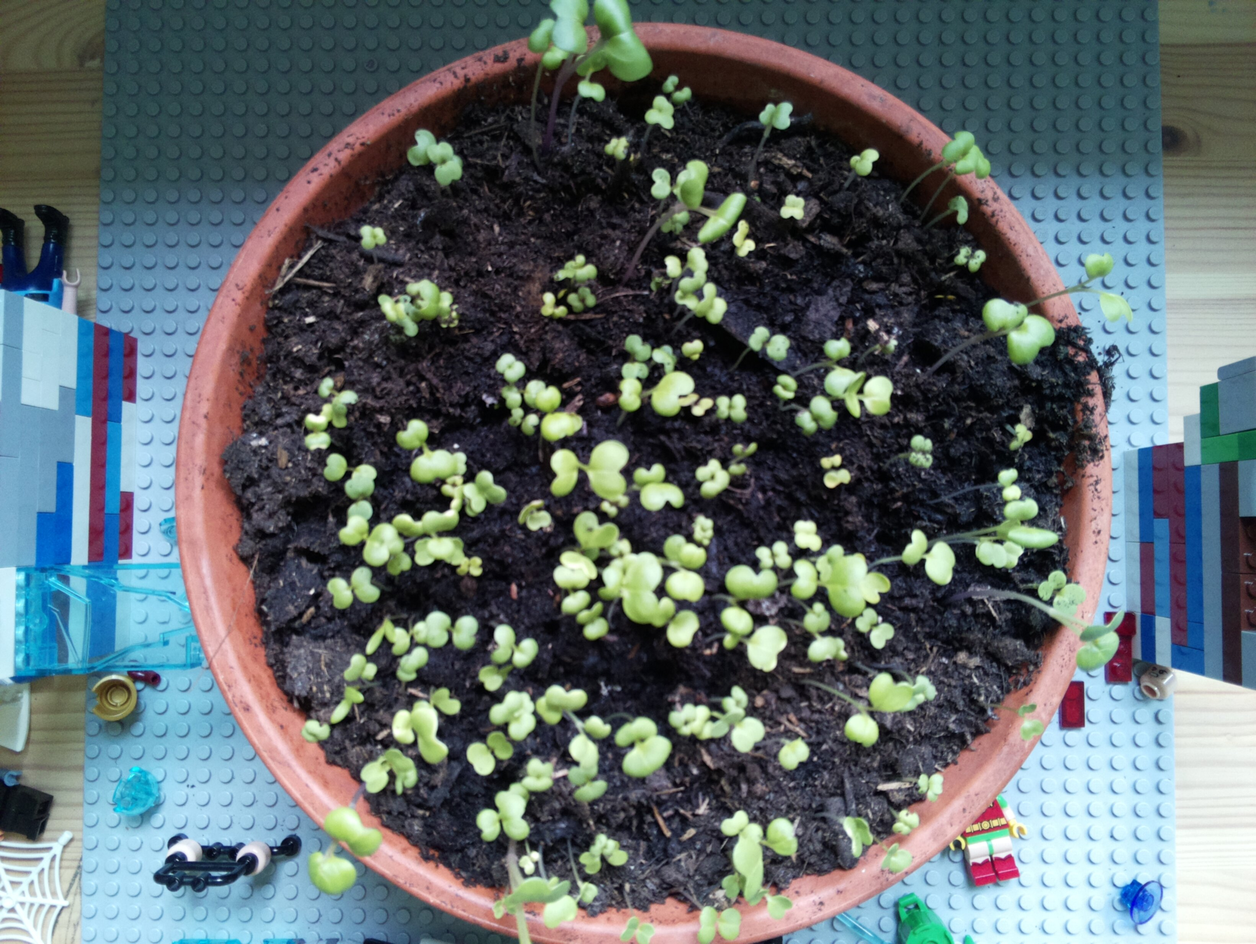
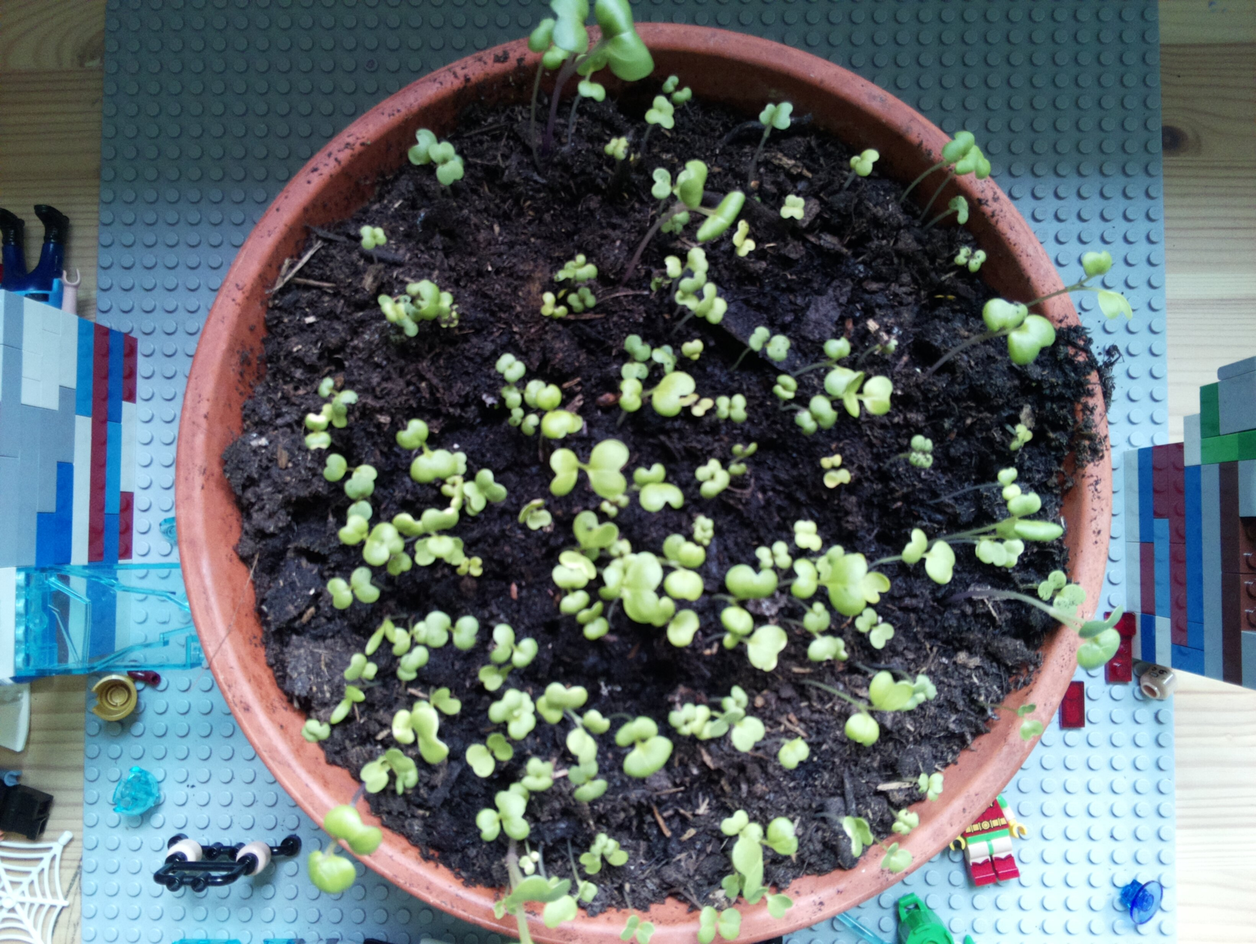
Update images at Fri 21 May 09:11:09 BST 2021

diff --git a/index.html b/index.html
@@ -11,7 +11,7 @@
     <div class="container">
     <h2>Keith & Jackson's Growlab!</h2>
     <p>Taking part in the #growlab challenge!</p>
-    <p>Last Updated - 2021-05-21_0900</p>            
+    <p>Last Updated - 2021-05-21_0910</p>            
     <img src="image.jpg" class="img-rounded" alt="Latest" width="304" height="236"> 
     </div>
   </body>
